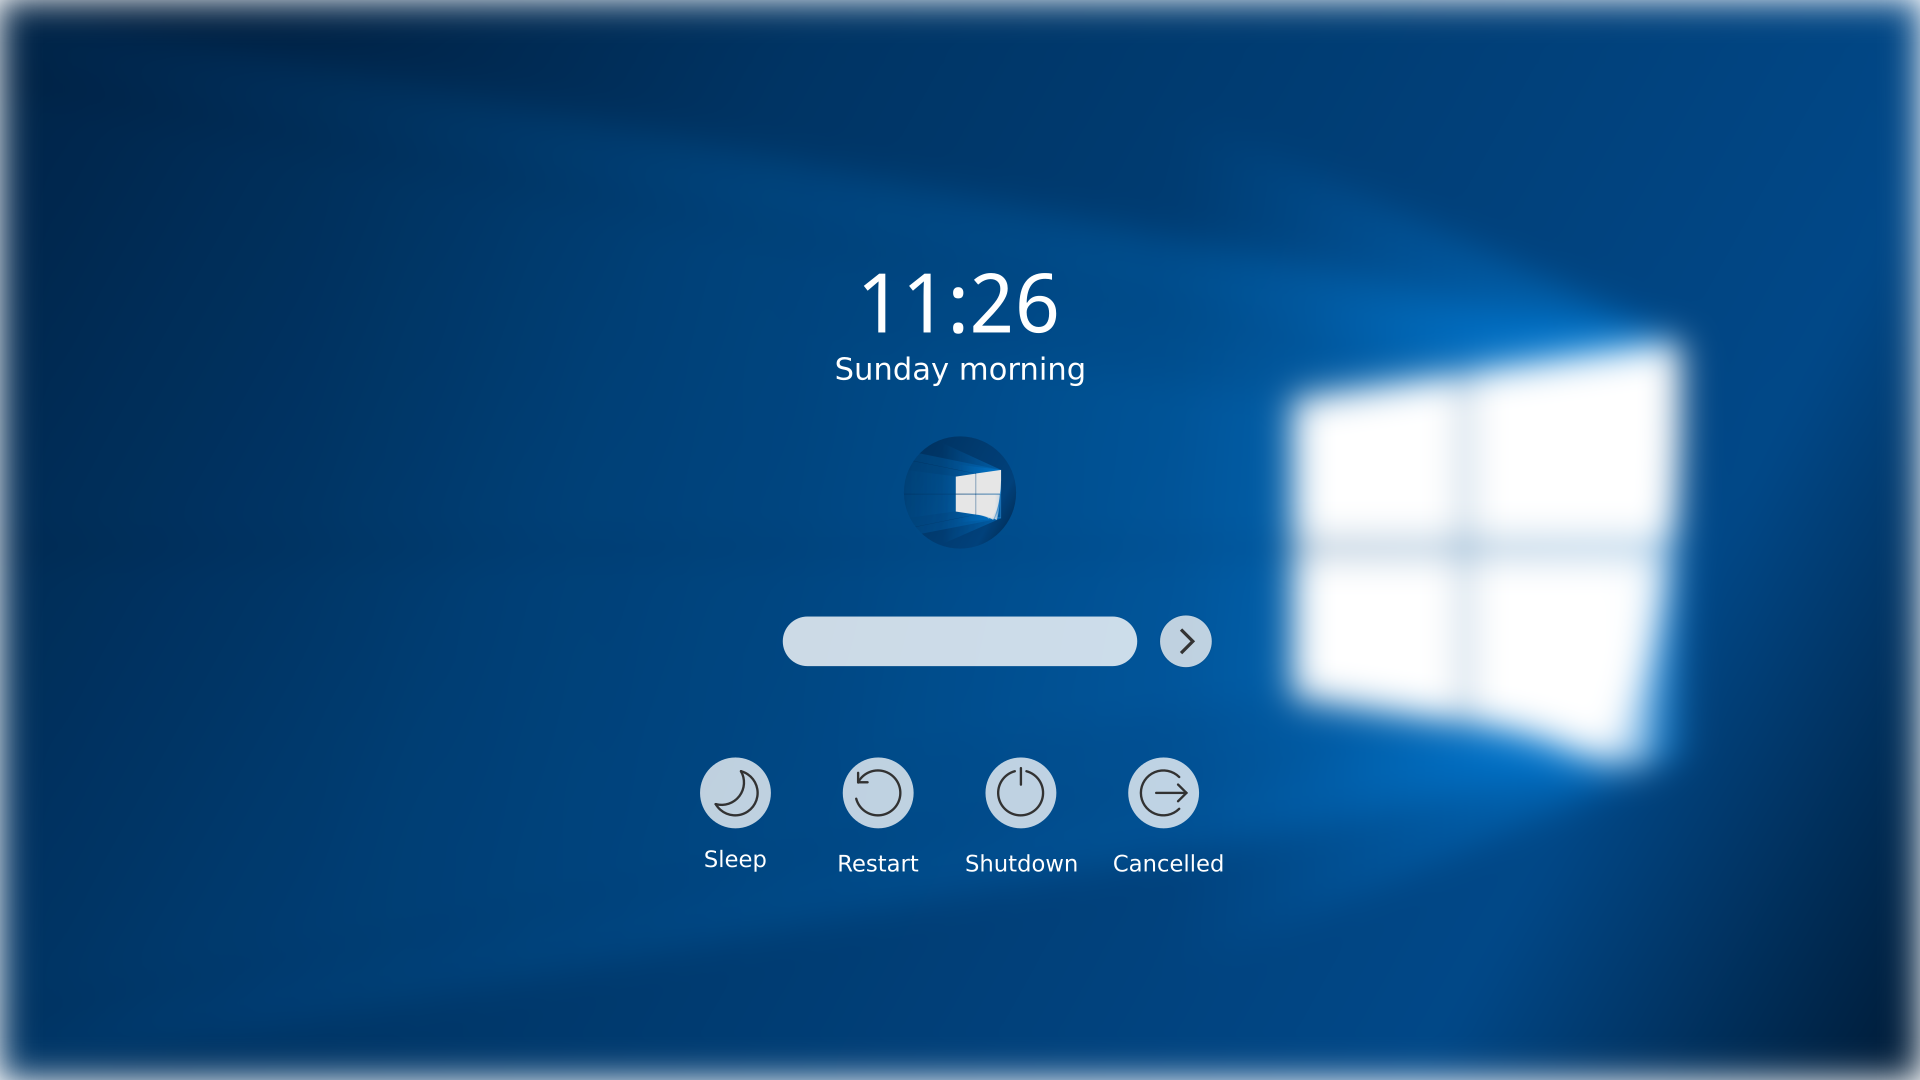
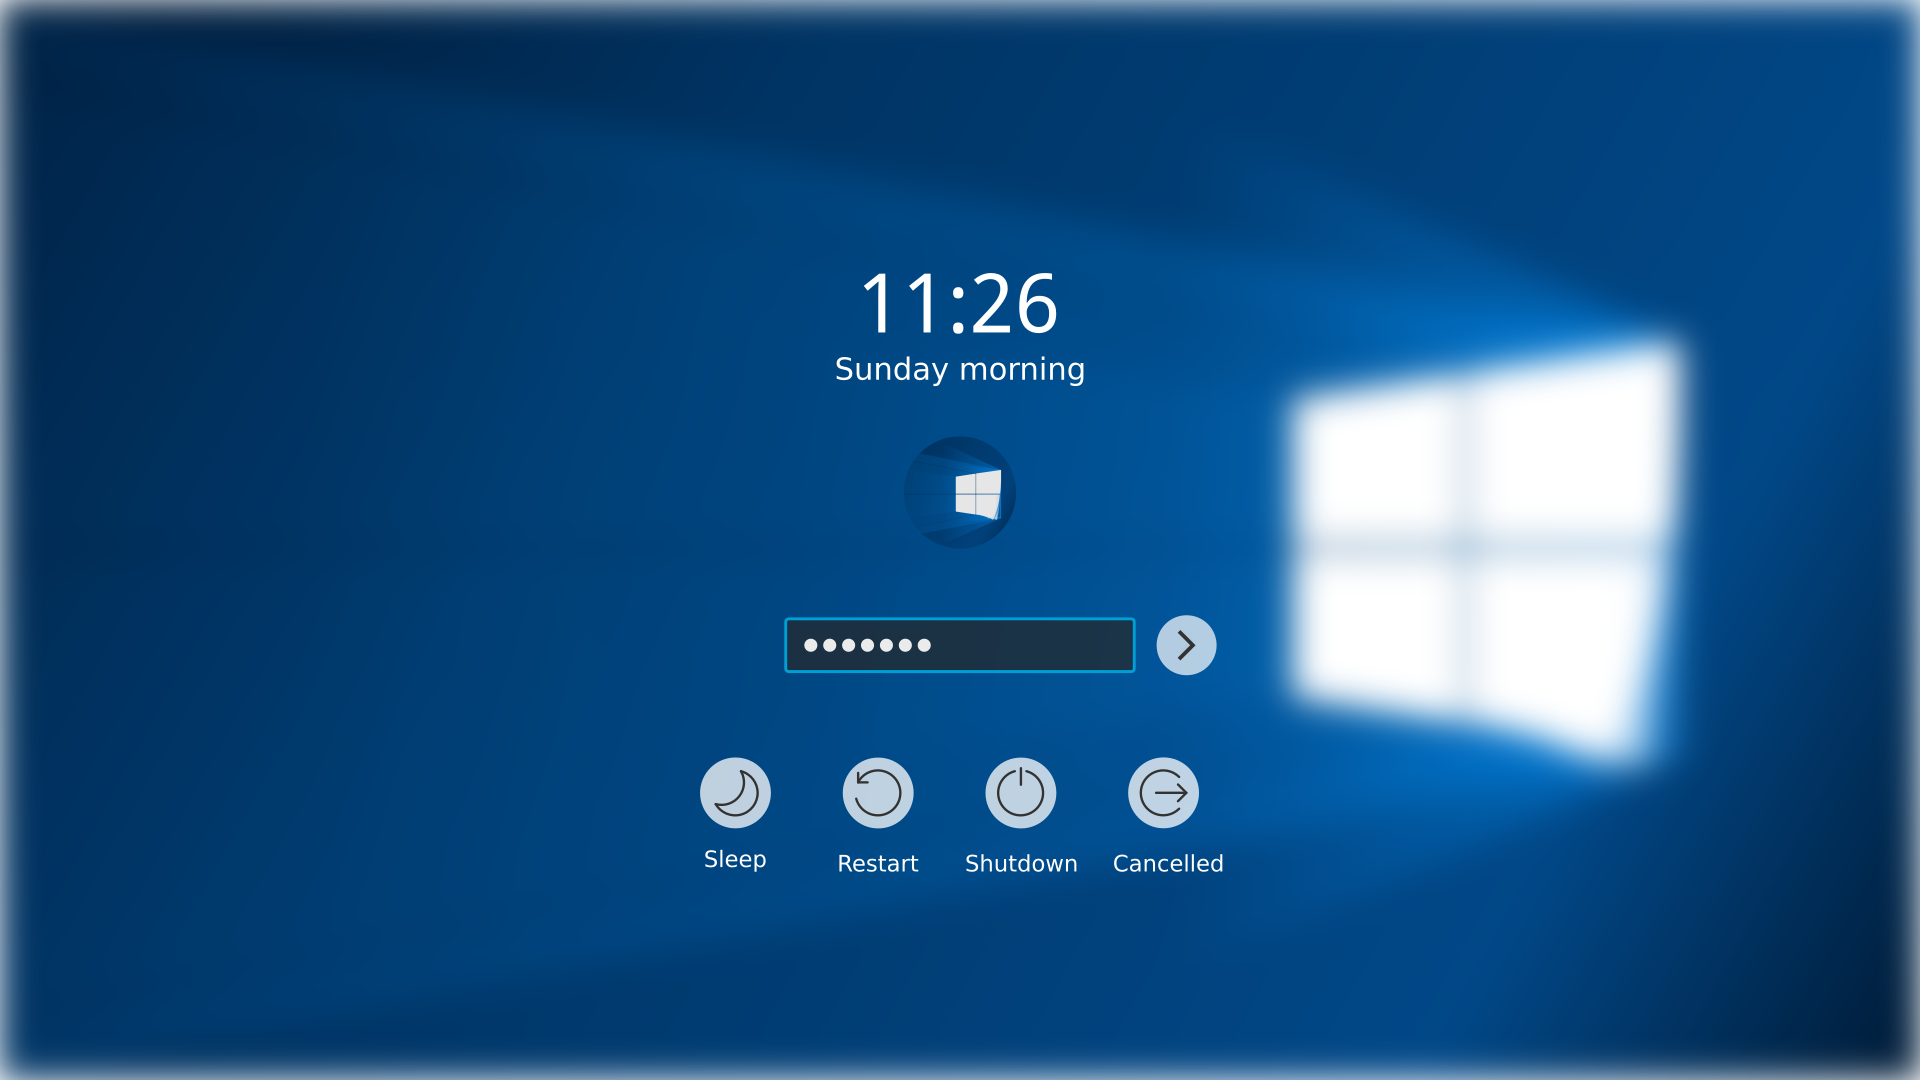
update

Changed region(s): [[0.4062, 0.55, 0.625, 0.6417]]

diff --git a/sddm/Win10OS/Login.qml b/sddm/Win10OS/Login.qml
@@ -41,34 +41,35 @@ SessionManagementScreen {
     PlasmaComponents.TextField {
         id: userNameInput
         Layout.fillWidth: true
-        Layout.minimumHeight: 32
+        Layout.minimumHeight: 28
         implicitHeight: root.height / 28
         font.family: config.Font || "Noto Sans"
         font.pointSize: usernameFontSize
-        opacity: 0.5
+        opacity: 1.0
         text: lastUserName
         visible: showUsernamePrompt
         focus: showUsernamePrompt && !lastUserName //if there's a username prompt it gets focus first, otherwise password does
         placeholderText: i18nd("plasma_lookandfeel_org.kde.lookandfeel", "Username")
 
         style: TextFieldStyle {
-            textColor: "black"
-            placeholderTextColor: "black"
+            textColor: "white"
+            placeholderTextColor: "white"
             background: Rectangle {
-                radius: 100
-                color: "white"
+                radius: 6
+                border.color: "#0078d7"
+                border.width: 2
+                color: "#262626"
             }
         }
     }
 
     PlasmaComponents.TextField {
         id: passwordBox
-        
         Layout.fillWidth: true
         Layout.minimumHeight: 32
         implicitHeight: usernameFontSize * 2.85
         font.pointSize: usernameFontSize * 0.8
-        opacity: passwordFieldOutlined ? 1.0 : 0.5
+        opacity: passwordFieldOutlined ? 1.0 : 1.0
         font.family: config.Font || "Noto Sans"
         placeholderText: config.PasswordFieldPlaceholderText == "Password" ? i18nd("plasma_lookandfeel_org.kde.lookandfeel", "Password") : config.PasswordFieldPlaceholderText
         focus: !showUsernamePrompt || lastUserName
@@ -77,14 +78,14 @@ SessionManagementScreen {
         onAccepted: startLogin()
 
         style: TextFieldStyle {
-            textColor: passwordFieldOutlined ? "white" : "black"
+            textColor: passwordFieldOutlined ? "white" : "white"
             placeholderTextColor: passwordFieldOutlined ? "white" : "white"
             passwordCharacter: config.PasswordFieldCharacter == "" ? "●" : config.PasswordFieldCharacter
             background: Rectangle {
-                radius: 100
-                border.color: "white"
-                border.width: 1
-                color: "white"
+                radius: 6
+                border.color: "#0078d7"
+                border.width: 2
+                color: "#262626"
             }
         }
 
